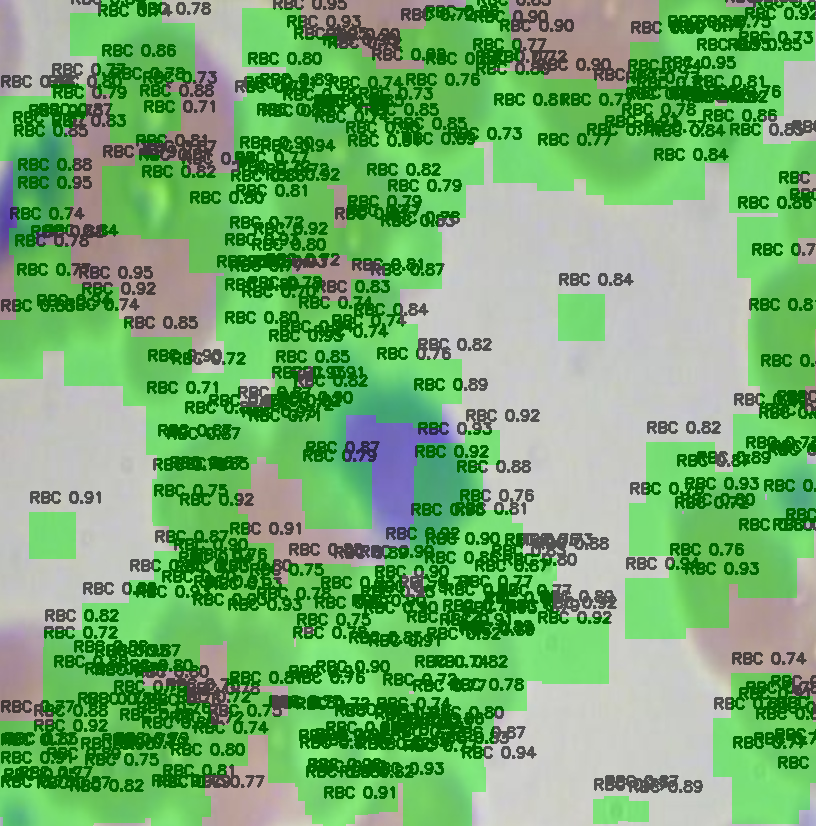
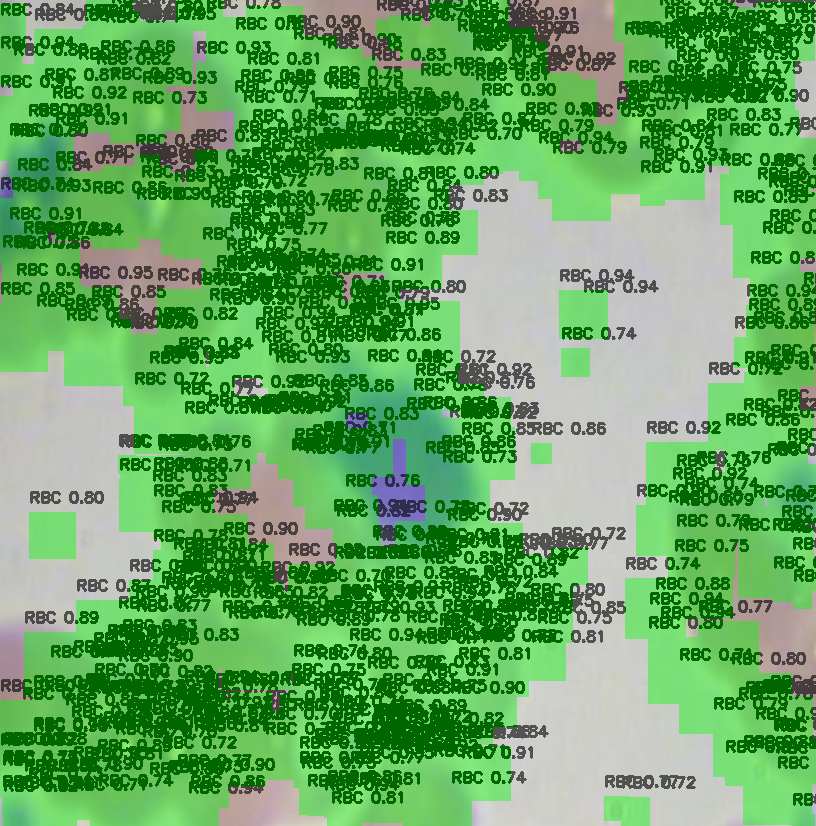
fix model

diff --git a/models.py b/models.py
@@ -411,9 +411,9 @@ def create_enhanced_detection(image_path):
             enhanced,
             cv2.HOUGH_GRADIENT,
             dp=1.2,
-            minDist=10,   # Further decreased min distance
+            minDist=8,   # Further decreased min distance
             param1=50,   # Relaxed edge threshold
-            param2=18,   # Further relaxed accumulator threshold
+            param2=15,   # Further relaxed accumulator threshold
             minRadius=8, # More realistic min radius
             maxRadius=35
         )
@@ -425,9 +425,9 @@ def create_enhanced_detection(image_path):
             blurred,
             cv2.HOUGH_GRADIENT,
             dp=1.5,
-            minDist=15,
+            minDist=12,
             param1=60,
-            param2=18,
+            param2=15,
             minRadius=10,
             maxRadius=32
         )
@@ -442,7 +442,7 @@ def create_enhanced_detection(image_path):
             for existing in unique_circles:
                 ex, ey, er = existing
                 distance = np.sqrt((x - ex)**2 + (y - ey)**2)
-                if distance < r * 0.8:  # Less aggressive overlap check
+                if distance < r * 0.9:  # Less aggressive overlap check
                     is_duplicate = True
                     break
             if not is_duplicate:
@@ -487,8 +487,8 @@ def create_enhanced_detection(image_path):
         
         # Approach 2: Color-based detection in HSV space
         # WBCs often have purple/blue nuclei - MORE SENSITIVE
-        lower_purple = np.array([100, 30, 30])
-        upper_purple = np.array([170, 255, 255])
+        lower_purple = np.array([90, 25, 25])
+        upper_purple = np.array([180, 255, 255])
         mask_purple = cv2.inRange(hsv, lower_purple, upper_purple)
         
         # Approach 3: LAB color space for better nucleus detection
@@ -511,7 +511,7 @@ def create_enhanced_detection(image_path):
         for contour in contours_wbc:
             area = cv2.contourArea(contour)
             # WBCs are typically larger than RBCs - AGGRESSIVE WIDENING
-            if 100 < area < 20000:
+            if 80 < area < 25000:
                 x, y, w, h = cv2.boundingRect(contour)
                 
                 # Check aspect ratio and solidity - VERY RELAXED CONSTRAINTS
@@ -520,7 +520,7 @@ def create_enhanced_detection(image_path):
                 hull_area = cv2.contourArea(hull)
                 solidity = area / hull_area if hull_area > 0 else 0
                 
-                if 0.3 <= aspect_ratio <= 3.0 and solidity > 0.4:
+                if 0.2 <= aspect_ratio <= 4.0 and solidity > 0.3:
                     conf = random.uniform(0.75, 0.98)
                     
                     cell_data = {
@@ -570,7 +570,7 @@ def create_enhanced_detection(image_path):
         for contour in contours_platelets:
             area = cv2.contourArea(contour)
             # Platelets are much smaller than other cells - AGGRESSIVE WIDENING
-            if 5 < area < 700:
+            if 3 < area < 800:
                 x, y, w, h = cv2.boundingRect(contour)
                 
                 # Check if it's not already detected as RBC or WBC
@@ -581,7 +581,7 @@ def create_enhanced_detection(image_path):
                 for existing_cell in all_detections['All_Cells']:
                     ex_center = existing_cell['center']
                     distance = np.sqrt((center_x - ex_center[0])**2 + (center_y - ex_center[1])**2)
-                    if distance < 8:  # Very close to existing detection
+                    if distance < 10:  # Very close to existing detection
                         is_duplicate = True
                         break
                 
